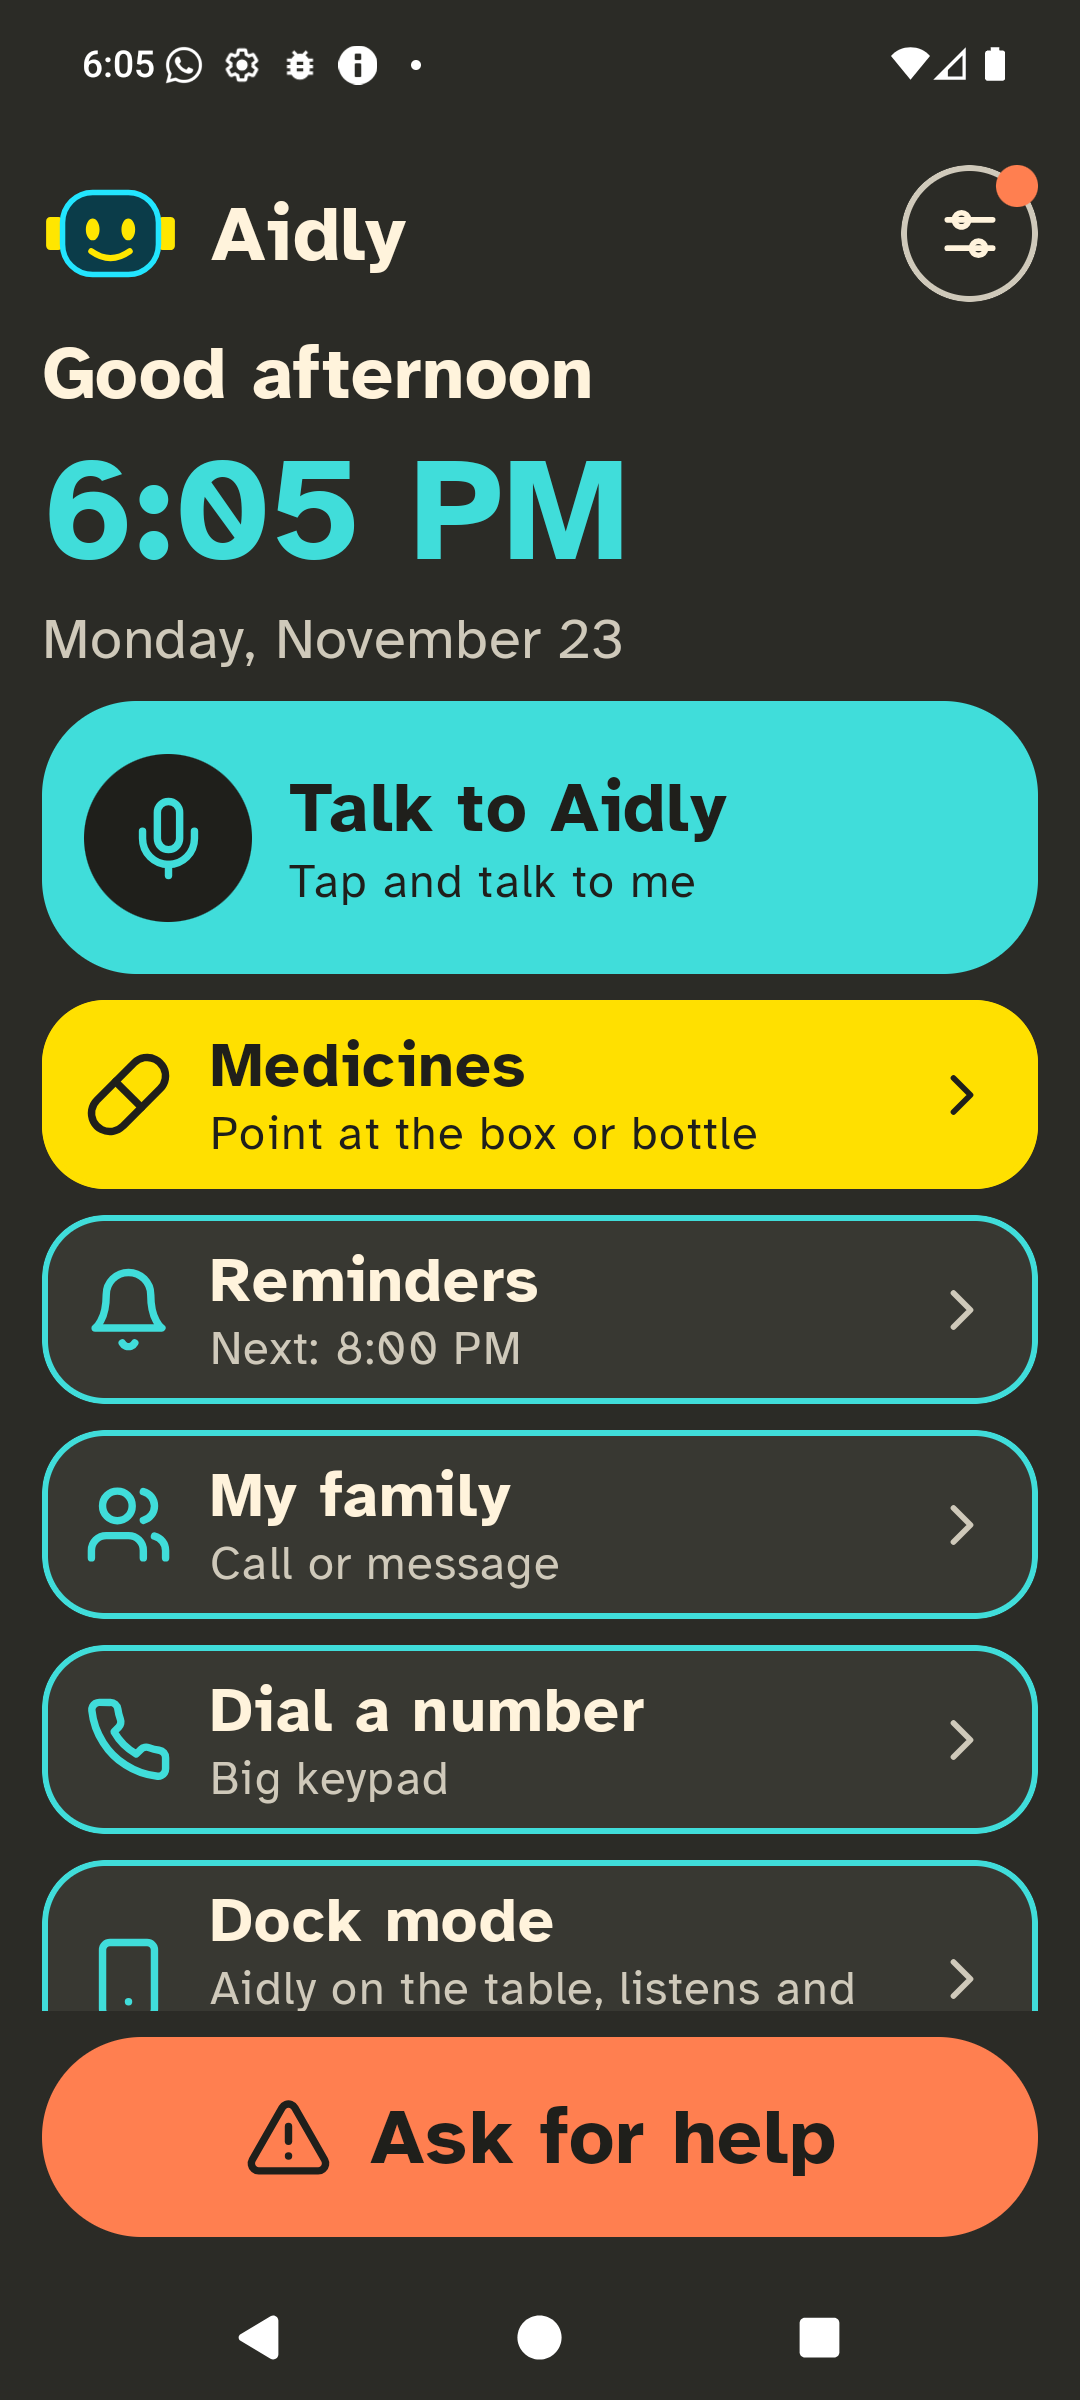
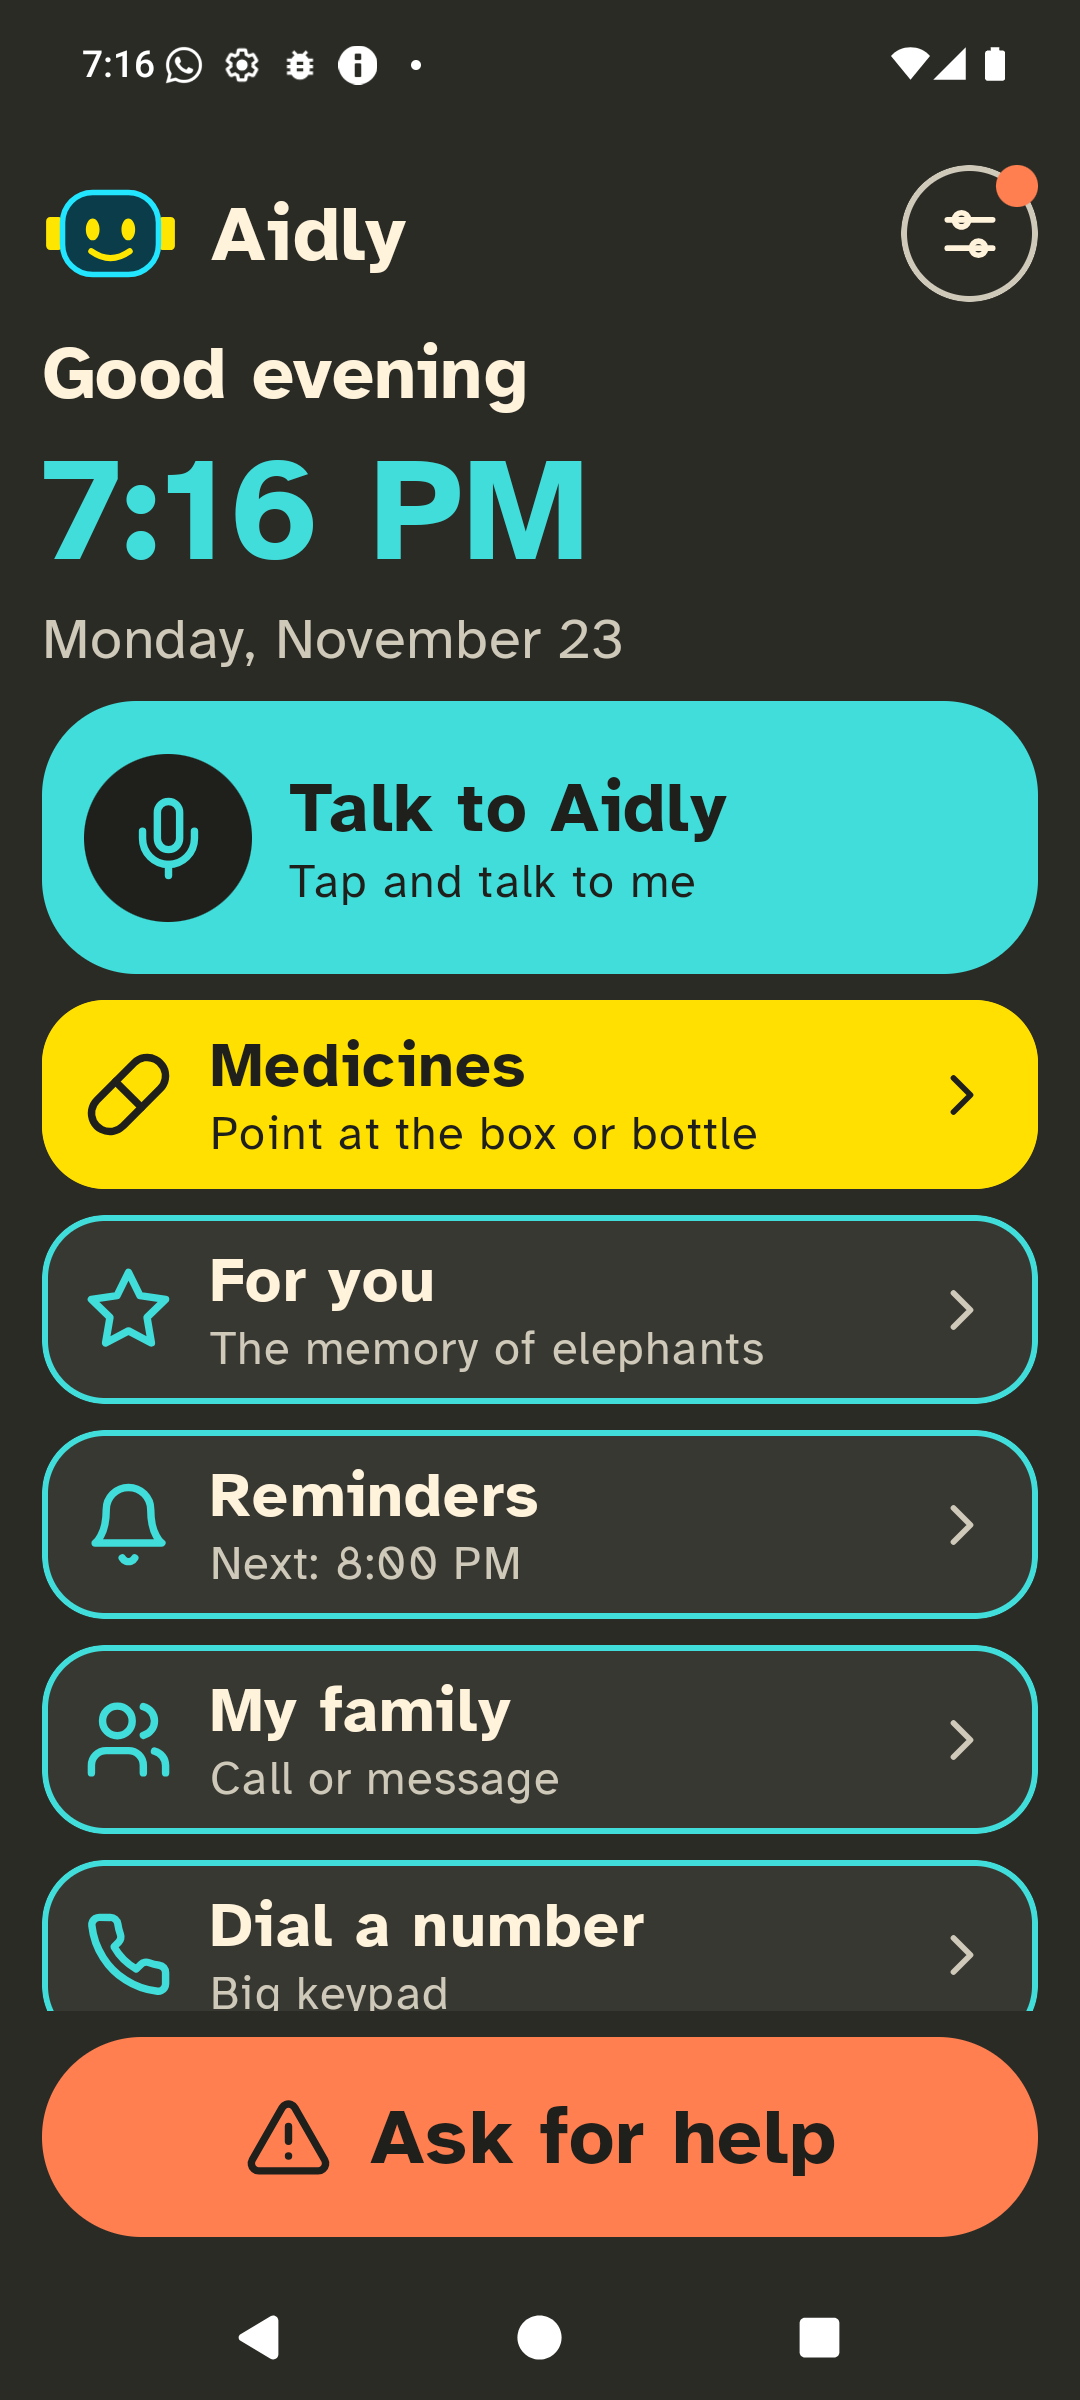
README and English captures for For you

diff --git a/README.md b/README.md
@@ -21,6 +21,7 @@ and lets your family know you are okay, sharing only what *you* choose.
 | Voice to structured reminders and appointments (schema-constrained JSON) | `PREFER_ON_DEVICE` then `ONLY_IN_CLOUD`; local rules first | [`Interprete.kt`](app/src/main/java/com/aidly/app/Interprete.kt), [`ParserLocal.kt`](app/src/main/java/com/aidly/app/ParserLocal.kt) |
 | **Medicines** (photo of a box or bottle: name, dose, what the box says, spoken questions with a safety gate) and "What does this say?" (letters, receipts, signs, possible scams) | `PREFER_IN_CLOUD` multimodal, structured JSON with a confidence field | [`AnalizaValidador.kt`](app/src/main/java/com/aidly/app/AnalizaValidador.kt), [`MedicinaValidador.kt`](app/src/main/java/com/aidly/app/MedicinaValidador.kt) |
 | Speech to text | Gemini (cloud) | [`GeminiStt.kt`](app/src/main/java/com/aidly/app/GeminiStt.kt) |
+| **For you** (cards on what the person likes, read aloud, with follow-up conversation) | One Gemini call with Google Search grounding for fresh items; when the free search quota is out, a no-search call for general-knowledge cards (labelled as such); built-in cards when offline or with the cloud off. Follow-ups use `PREFER_ON_DEVICE` | [`FeedTarjetas.kt`](app/src/main/java/com/aidly/app/FeedTarjetas.kt), [`ParaTiActivity.kt`](app/src/main/java/com/aidly/app/ParaTiActivity.kt), [`AsistenteVoz.kt`](app/src/main/java/com/aidly/app/AsistenteVoz.kt) |
 | Web questions | Gemini with Google Search grounding | [`Busqueda.kt`](app/src/main/java/com/aidly/app/Busqueda.kt) |
 | On-device model status and background download | `FirebaseAIOnDevice.checkStatus()` and `download()` at app start; shown in Settings > Privacy | [`ModeloLocal.kt`](app/src/main/java/com/aidly/app/ModeloLocal.kt) |
 
@@ -28,7 +29,7 @@ Also used: **Firebase App Check** (debug provider for development and submission
 rules in [`firestore.rules`](firestore.rules)) and **Firebase Hosting** (family web page in [`familia/`](familia/)).
 
 ## Features
-Voice assistant (messages and email by notification, reminders with exact alarms, calendar, web questions, call/open apps) · **Medicines** camera reader (with "add a reminder", e.g. "blood pressure pill at 9:00 AM") and "What does this say?" for letters and receipts ·
+**For you** (the assistant brings things the person likes, with source and a safety filter; optional spoken offers in dock mode) · Voice assistant (messages and email by notification, reminders with exact alarms, calendar, web questions, call/open apps) · **Medicines** camera reader (with "add a reminder", e.g. "blood pressure pill at 9:00 AM") and "What does this say?" for letters and receipts ·
 daily check-in · **dock mode** (USB-C code for the dock included, unit-tested against a simulated port only; big animated face, voice through the dock, optional on-device presence detection with MediaPipe that asks "are you okay?" if it stops seeing you after a conversation; no images are stored or sent) · consent-based family circle with a code · SOS · big-key dialer · optional caller announcement · widgets · Spanish and English UI **and voice** (commands, spoken answers, speech recognition and AI prompts follow the app language).
 
 ## How it is organised
@@ -47,6 +48,7 @@ daily check-in · **dock mode** (USB-C code for the dock included, unit-tested a
 | **Gemini Nano on a real phone** | **Not verified.** Neither the emulator nor the Galaxy A23 has AICore, so both show the "rules / cloud" fallback; a Nano-capable phone is still needed |
 | Camera presence detection (MediaPipe) | Measured on a Galaxy A23 (Android 14, 3.6 GB RAM): about 4 analysed frames per second at 24 ms each, battery temperature unchanged after 40 s; found and fixed a CameraX binding bug that only showed on the real phone. Battery drain over longer runs not measured |
 | Call announcer (Android 10+ call-screening role) | Not testable on the emulator image used |
+| "For you": card parsing, safety filter, topic profile and offer policy | 21 unit tests passing; the cloud generator and the card conversation were run on the emulator (Google Search grounding had no free quota that day, so the fallback to no-search cards was the path exercised); not yet run on the Galaxy A23 |
 | TalkBack walkthrough, USB audio and the dock hardware | Not yet verified; the dock is a design prototype |
 
 ## Test build and family page
